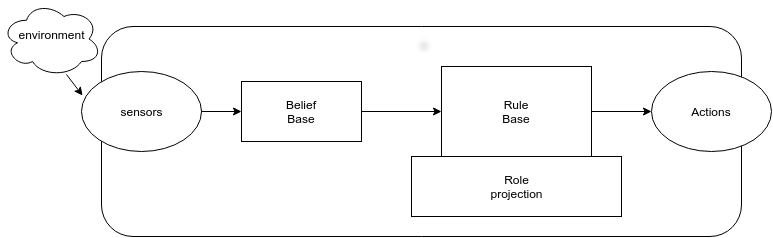
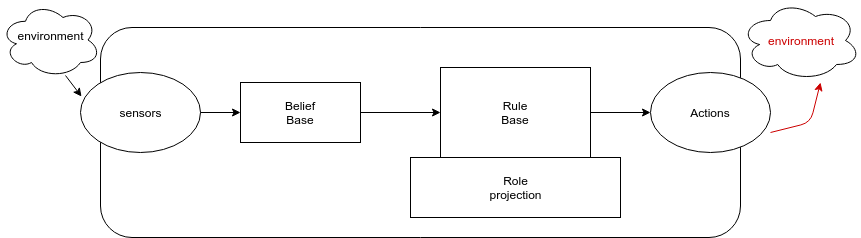
small corrections

diff --git a/thesis/correction-report.tex b/thesis/correction-report.tex
@@ -38,7 +38,8 @@ paradigm, nor to the AF-Raf programming language which has been actually
 extended. A more precise title is required.
 
 \end{them}
-Fixed
+Fixed. The title of the thesis is now "AF-Raf, a New Agent Oriented Programming
+Language with Roles, Sessions and Type Checking".
 
 \begin{them}
 
@@ -49,7 +50,7 @@ throughout the thesis, whereas they should be included in a chapter, just after
 the Introduction, as customary.
 
 \end{them}
-Fixed
+Fixed.
 
 \begin{them}
 
@@ -152,7 +153,7 @@ implemented?
 \end{them}
 Explained in section 10.1.
 
-Revisit if there is enough time.
+\todo{Revisit if there is enough time.}
 
 \begin{them}
 
@@ -408,9 +409,13 @@ examples showing the same features are different, their captions should briefly
 explain why.
 
 \end{them}
-The reader should see the Calculator example where this issue is explained.
-Figure 3.1 presents an agent code written only with rules, whereas figure 5.2
-and figure 5.3 presents agent code written using operations (syntactic sugar).
+The reader is referred to section 11.3 (Syntactic Sugar) where this issue is
+explained in a formal way and to section 13.1 (the Calculator) where this issue
+is exemplified.
+
+In short, figure 3.1 presents an agent code written only with rules, whereas
+figure 5.2 and figure 5.3 presents agent code written using operations
+(syntactic sugar).
 
 \begin{them}
 
@@ -419,7 +424,7 @@ page 31 only queries without conjunctions are shown and the use of “\&” as
 “and” is not explained.
 
 \end{them}
-\todo{} 
+Fixed. Conjunctive queries are defined on page . 
 
 \begin{them}
 
@@ -506,8 +511,9 @@ represent both values and typing information” deals with the semantics and
 should be moved in a more suitable place.
 
 \end{them}
-I don't understand why???
-\todo{}
+I agree that the syntax and semantics should be kept separate in the formal
+parts of the thesis, but I do not see why I should not give examples that
+illustrate both syntax and semantics.
 
 \begin{them}
 
@@ -519,7 +525,8 @@ expressed, which operators can appear in a query, and should provide examples
 demonstrating many different forms of queries, not just “atomic” ones.
 
 \end{them}
-\todo{}
+Fixed. The first sentence is just an introduction. All types of queries are now
+formally defined. See definitions: 11.26, 11.27, 11.28.
 
 \begin{them}
 
@@ -534,7 +541,9 @@ Is parallel substitution really necessary? Since beliefs are ground, maybe it
 is not. Please check.
 
 \end{them}
-\todo{}
+Parallel substitution is not necessary, but convenient, especially for defining
+disjunctive and conjunctive queries(11.27, 11.28). Even the simple queries
+would not be easily formulated if we didn't have parallel substitution(11.26).
 
 \begin{them}
 
@@ -546,7 +555,8 @@ before.
 
 \end{them}
 The paragraph the examiner refers to is part of the motivation to why type
-checking is useful. The types of messages are being described in the same chapter in section 11.3.2 (page ).
+checking is useful. The types of messages are being described in the same
+chapter in section 11.3.2 (page ).
 
 \begin{them}
 
@@ -578,7 +588,12 @@ discussion about the syntax has completed and when the thesis moves into
 semantics issues.
 
 \end{them}
-\todo{?}
+Old section 3.3.1 (now 7.0.7) recalls several basic concepts related to multi
+sorted predicate logic which are necessary in the following section 3.3.2 (now
+10.3.1). As stated in the first paragraph the point is to see how sorts were
+introduced in logic, because the types in AF-Raf are introduced in a similar
+way. Sorts in logic are types, not semantics. Now this section is moved in the
+Background.
 
 \begin{them}
 
@@ -588,10 +603,15 @@ should be also noted that this remark deals with syntax inside a section
 dealing with semantics.
 
 \end{them}
-Non-ground terms are terms that may contain variables. In AF-Raf beliefs are
-ground terms, while messages and queries are non-ground terms. The examiner is
-refered to the section 7.0.7 on Multi-Sorted Predicate logic for a definition
-an detailed explanation.
+Non-ground terms are terms that may contain variables. In AF-Raf beliefs and
+messages are ground terms, while queries are non-ground terms. The examiner is
+refered to the section 7.0.7 on Multi-Sorted Predicate logic for a formal
+definition an detailed explanation of terms, and to section 10.2 for concrete
+examples of both ground (beliefs) and non ground (queries) terms.
+
+Also, the section is about sorts in logic. Sorts in logic are similar to types
+and have very little to do with semantics. Thus, I would say this section is
+not about semantics.
 
 \begin{them}
 
@@ -610,7 +630,7 @@ system.
 Page 37:
 Remark 3 highlights a problem: which is the candidate's solution to it?
 \end{them}
-The canditate's solution is presented in the first sentence of that paragraph:
+The candidate's solution is presented in the first sentence of that paragraph:
 "The definitions given here are in-between what applied scientists tend to
 prefer and what pure logicians tend to prefer".
 
@@ -631,7 +651,8 @@ Page 39:
 programs?
 
 \end{them}
-\todo{?}
+Fixed. It should indeed be +(2(),3()). The user of AF-Raf doesn't have to use
+this cumbersome representation.
 
 \begin{them}
 

diff --git a/thesis/thesis.tex b/thesis/thesis.tex
@@ -1957,7 +1957,7 @@ illustrates a simple AF-Raf agent.
 
 \begin{figure}\footnotesize % <<<
 \includegraphics{AF-RafArchitecture2.png}
-\caption{AF-Raf agent architecture}
+\caption{AF-Raf agent architecture and control flow}
 \label{fig:AF-RafArch}
 \end{figure} % >>>
 
